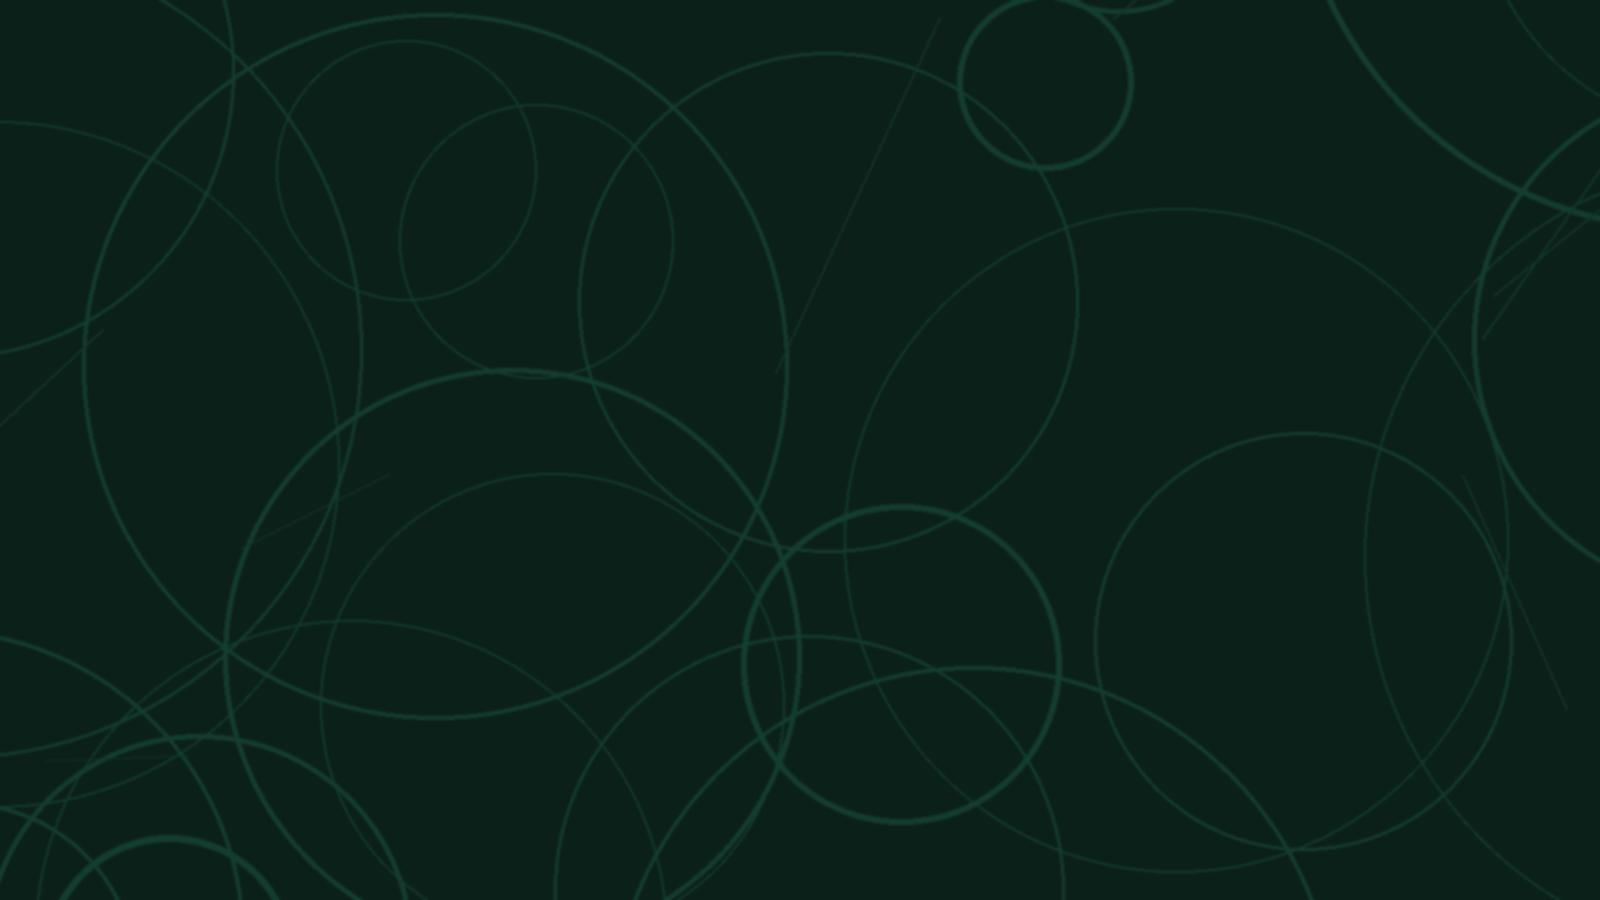
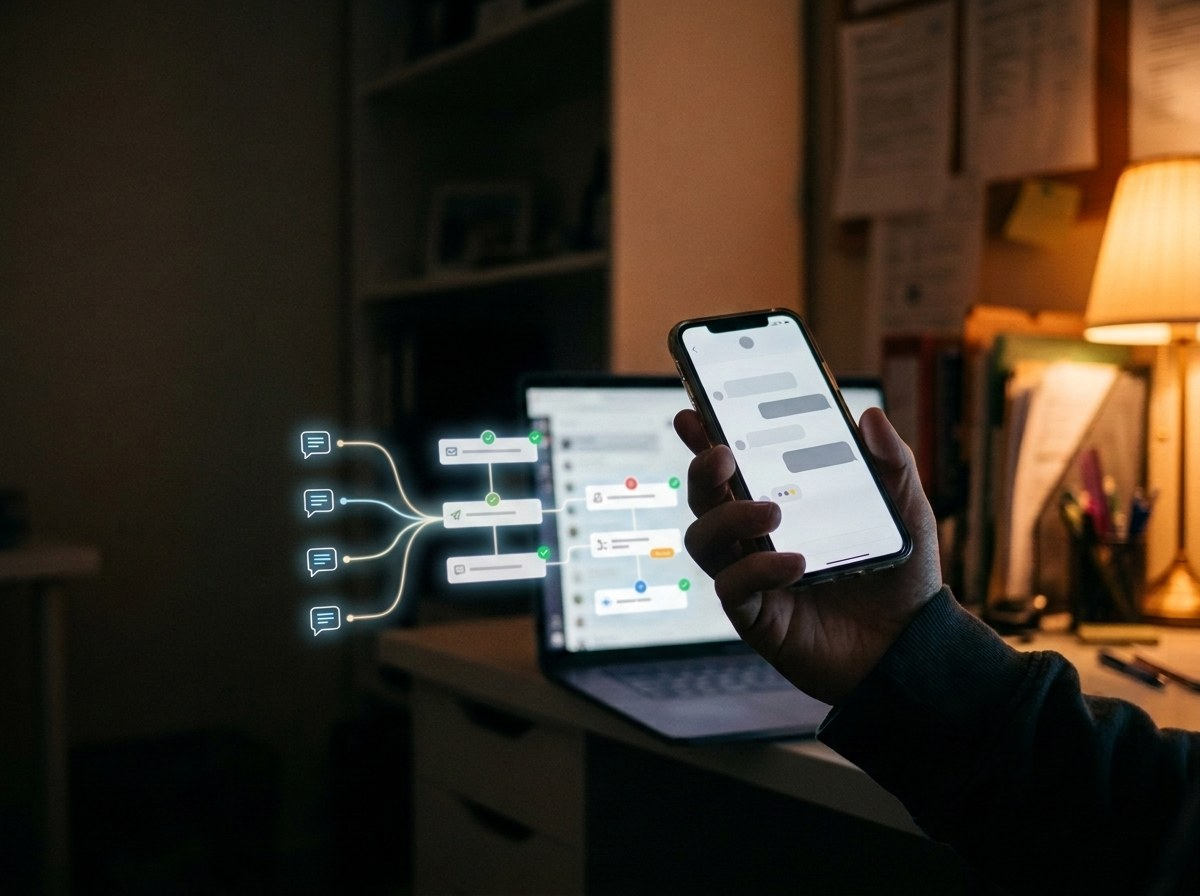
Foto de automatizacion en el carrusel

diff --git a/publico/index.html b/publico/index.html
@@ -127,7 +127,7 @@
       </article>
 
       <article class="frente" id="automatizacion" role="group" aria-roledescription="frente" aria-label="Automatización de procesos comerciales">
-        <img class="frente-img" src="img/automatizacion.jpg?v=6f0b0810" alt="" width="1600" height="900" loading="lazy" decoding="async">
+        <img class="frente-img" src="img/automatizacion.jpg?v=10948cca" alt="" width="1600" height="900" loading="lazy" decoding="async">
         <div class="frente-cuerpo">
           <h3>Automatización de procesos comerciales</h3>
           <dl>
